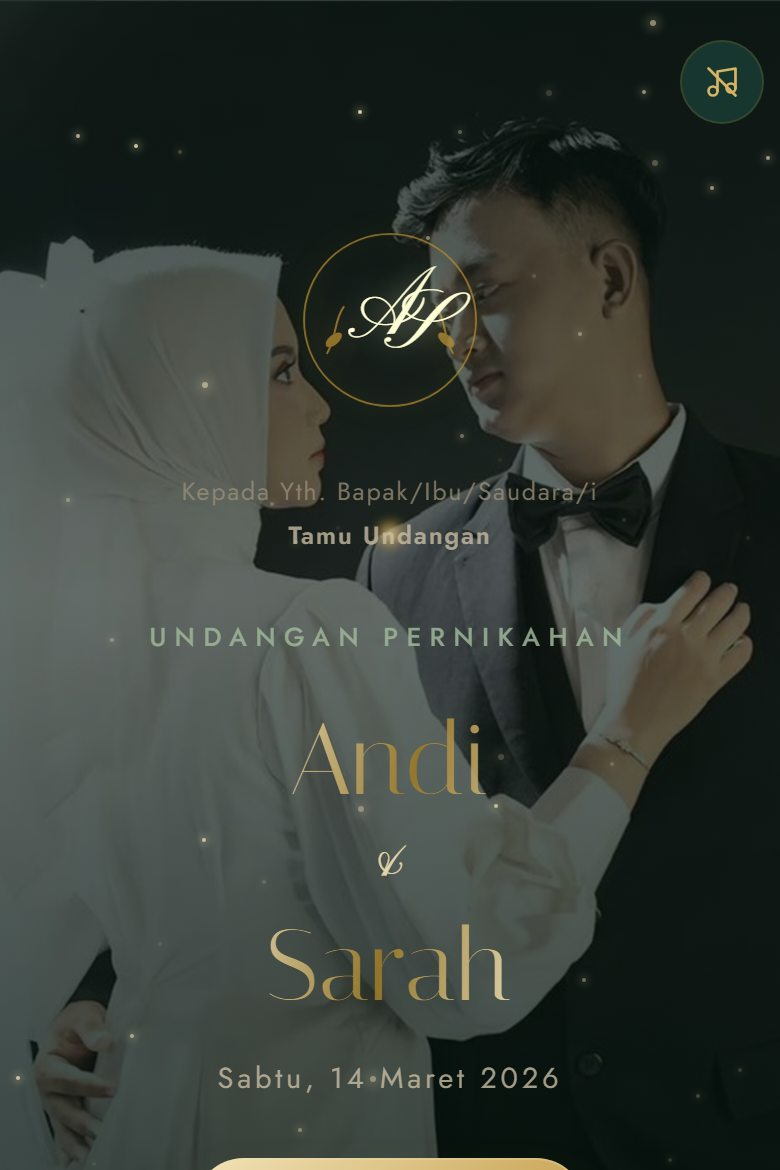
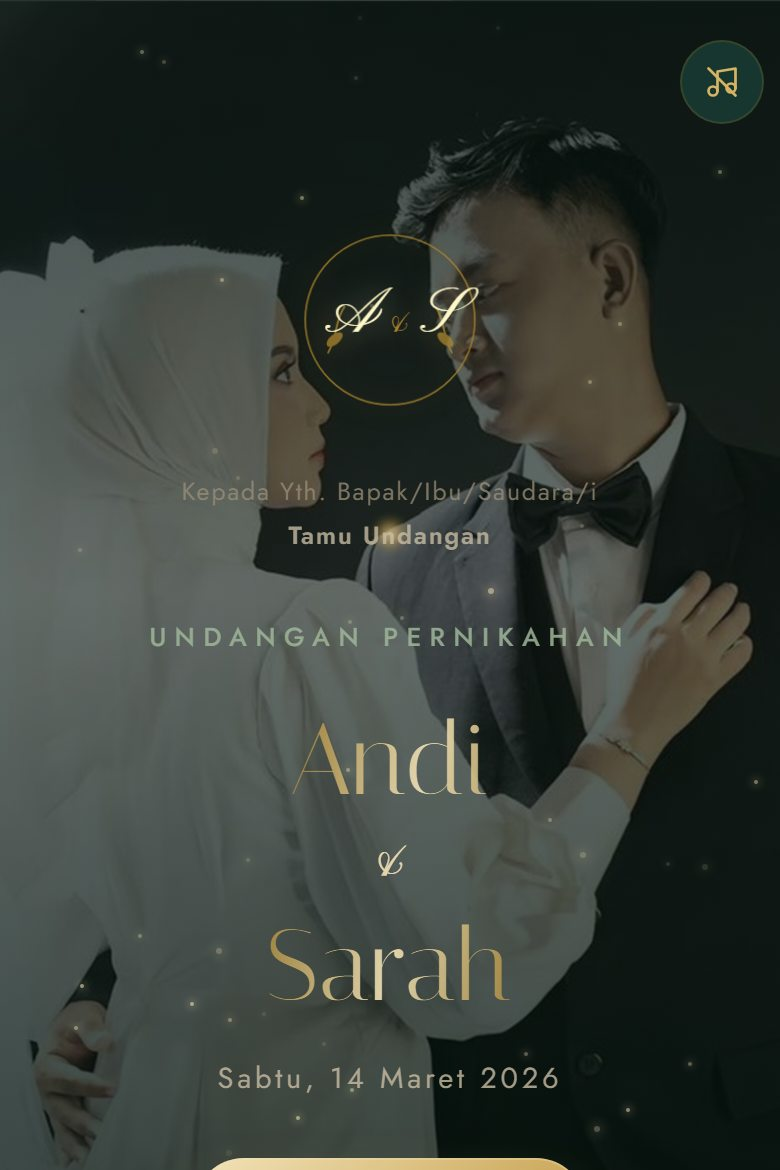
fix: potret ulang gambar tema yang basi + buang catatan gerbang link tamu
GAMBAR BASI — garis putih sampul sage-rose sudah hilang di undangan
sungguhan sejak commit sebelumnya, tapi user masih melihatnya di halaman
depan, di kartu tema, dan di tab Desain Kamu. Perbaikannya benar; yang
salah adalah gambarnya.

Dua gambar per tema BUKAN aset desain, melainkan POTRET sampul tema itu
sendiri: thumbnail kartu tema, dan gambar layar HP di hero. Keduanya
dipotret 17:39, sementara CSS-nya diperbaiki 21:01. Setiap perubahan pada
sampul membuat keduanya basi SEKETIKA, dan tidak ada apa pun yang memberi
tahu — gejalanya persis seperti "bug yang katanya sudah diperbaiki tapi
masih muncul".

Keenam gambar dipotret ulang. Emerald Dusk ikut berubah karena monogram
sampulnya juga baru.

Dibuktikan dengan membandingkan LAMA vs BARU, bukan dengan melihat:
kolom di garis tengah dibaca lewat canvas, dan lonjakannya turun dari
165,53 ke 4,71 (hero) dan dari 169,91 ke 9,80 (thumbnail). Angka mutlaknya
sengaja tidak dipakai sebagai ambang — foto sungguhan punya tepi tegak di
tengah, dan ivory-gold serta emerald-dusk yang TIDAK punya jahitan sama
sekali tetap terbaca 3-6. Yang membuktikan cuma selisihnya.

tools/potret-tema.js ditambahkan supaya ini tidak terulang: satu perintah
memotret ulang seluruh gambar tema. Ia menunggu #cover.has-sampul —
penanda yang dipasang demo-template.js setelah foto sampul selesai dimuat
— bukan jeda tetap, jadi mustahil menangkap sampul kosong. Dicatat juga di
CLAUDE.md sebagai langkah wajib setiap kali sampul tema berubah.
[…]

diff --git a/tools/potret-tema.js b/tools/potret-tema.js
@@ -1,0 +1,192 @@
+/**
+ * Memotret ulang SEMUA gambar statis yang diambil dari sampul tema.
+ *
+ * KENAPA BERKAS INI ADA
+ * ---------------------
+ * Ada dua gambar per tema yang bukan aset desain, melainkan POTRET dari
+ * sampul tema itu sendiri:
+ *
+ *   templates/<kategori>/<tema>/assets/thumbnail.jpg  -> kartu tema
+ *   assets/hero/<tema>.jpg                            -> mockup HP di hero
+ *
+ * Artinya setiap kali sampul sebuah tema berubah — CSS-nya, foto contohnya,
+ * monogramnya — kedua gambar itu langsung basi, dan TIDAK ADA yang
+ * memberi tahu. Gagalnya senyap dan tampak seperti bug yang sudah
+ * diperbaiki tapi "masih muncul".
+ *
+ * Itu sudah benar-benar terjadi: garis putih di sampul Sage Rose sudah
+ * diperbaiki di CSS dan hilang di undangan sungguhan, tapi masih terlihat
+ * di halaman depan dan di kartu tema selama berjam-jam — karena yang
+ * dilihat orang di sana adalah potret lama.
+ *
+ * JALANKAN SETIAP KALI:
+ *   - CSS/markup sampul sebuah tema diubah
+ *   - berkas di templates/_demo/<tema>/ diganti
+ *   - tema baru ditambahkan
+ *
+ * PRASYARAT (dua-duanya harus sudah jalan):
+ *   1. server statis lokal di http://localhost:5500 dari root repo
+ *   2. Chrome headless dengan --remote-debugging-port=9222
+ *      Catatan: --window-size TIDAK menentukan viewport di Windows (ada
+ *      batas lebar jendela minimum), jadi ukurannya dipaksa lewat
+ *      Emulation.setDeviceMetricsOverride, bukan lewat argumen.
+ *
+ * PAKAI:  node tools/potret-tema.js [nama-tema ...]
+ *         tanpa argumen = semua tema
+ */
+const fs = require('fs');
+const path = require('path');
+const { execFileSync } = require('child_process');
+
+const REPO = path.resolve(__dirname, '..');
+const SERVER = 'http://localhost:5500';
+const CDP = 'http://127.0.0.1:9222';
+const KATEGORI = 'elegan-klasik';
+
+// Dua ukuran, dua tujuan. Lebar potret = lebar HP sungguhan; hasil
+// akhirnya diperbesar 2x oleh deviceScaleFactor lalu diperkecil ke ukuran
+// simpan di bawah.
+const KELUARAN = [
+  {
+    nama: 'thumbnail',
+    viewport: { w: 390, h: 585 },          // rasio 2:3, kartu tema
+    simpan: { w: 780, h: 1170, mutu: 84 },
+    tujuan: t => path.join(REPO, 'templates', KATEGORI, t, 'assets', 'thumbnail.jpg')
+  },
+  {
+    nama: 'hero HP',
+    viewport: { w: 390, h: 844 },          // rasio HP sungguhan, mockup hero
+    simpan: { w: 640, h: 1385, mutu: 82 },
+    tujuan: t => path.join(REPO, 'assets', 'hero', t + '.jpg')
+  }
+];
+
+function temaTersedia() {
+  const dir = path.join(REPO, 'templates', KATEGORI);
+  return fs.readdirSync(dir, { withFileTypes: true })
+    .filter(d => d.isDirectory())
+    .map(d => d.name);
+}
+
+async function cdp(url) {
+  const r = await fetch(CDP + '/json/new?about:blank', { method: 'PUT' });
+  const t = await r.json();
+  const ws = new WebSocket(t.webSocketDebuggerUrl);
+  let id = 0;
+  const nunggu = new Map();
+  await new Promise(res => (ws.onopen = res));
+  ws.onmessage = ev => {
+    const m = JSON.parse(ev.data);
+    if (m.id && nunggu.has(m.id)) { nunggu.get(m.id)(m); nunggu.delete(m.id); }
+  };
+  const kirim = (metode, params) => new Promise(res => {
+    const n = ++id; nunggu.set(n, res);
+    ws.send(JSON.stringify({ id: n, method: metode, params: params || {} }));
+  });
+  return { kirim, tutup: async () => { ws.close(); await fetch(CDP + '/json/close/' + t.id); } };
+}
+
+async function potret(tema, keluaran) {
+  const { kirim, tutup } = await cdp();
+  await kirim('Page.enable');
+  await kirim('Runtime.enable');
+  await kirim('Emulation.setDeviceMetricsOverride', {
+    width: keluaran.viewport.w, height: keluaran.viewport.h,
+    deviceScaleFactor: 2, mobile: true
+  });
+  await kirim('Page.navigate', {
+    url: SERVER + '/templates/' + KATEGORI + '/' + tema + '/index.html'
+  });
+
+  // Menunggu gambar benar-benar selesai, bukan menunggu durasi tetap:
+  // sampul memuat foto contoh dari templates/_demo/, dan potret yang
+  // diambil sebelum foto itu masuk menghasilkan sampul KOSONG — persis
+  // kesalahan yang dulu membuat kartu tema menampilkan sampul hampa.
+  let siap = false;
+  for (let i = 0; i < 40 && !siap; i++) {
+    await new Promise(r => setTimeout(r, 250));
+    const res = await kirim('Runtime.evaluate', {
+      expression: `(() => {
+        if (document.readyState !== 'complete') return false;
+        const cover = document.getElementById('cover');
+        if (!cover) return false;
+        // has-sampul dipasang demo-template.js SETELAH foto sampulnya
+        // selesai dimuat, jadi ia penanda paling jujur bahwa sampulnya siap.
+        if (!cover.classList.contains('has-sampul')) return false;
+        return Array.from(document.images).every(i => !i.src || i.complete);
+      })()`,
+      returnByValue: true
+    });
+    siap = !!(res.result && res.result.result.value);
+  }
+  if (!siap) console.warn('  ! ' + tema + ': sampul belum siap setelah 10 detik, tetap dipotret');
+
+  // Beri jeda pendek supaya animasi masuk sudah selesai — elemen yang
+  // tertangkap di tengah transisi tampil setengah transparan.
+  await new Promise(r => setTimeout(r, 900));
+
+  const shot = await kirim('Page.captureScreenshot', { format: 'png' });
+  const tmp = path.join(require('os').tmpdir(), 'ku-potret-' + tema + '-' + Date.now() + '.png');
+  fs.writeFileSync(tmp, Buffer.from(shot.result.data, 'base64'));
+  await tutup();
+  return tmp;
+}
+
+// Pengubahan ukuran & konversi ke JPEG dilakukan PowerShell + System.Drawing:
+// tidak ada ImageMagick di mesin ini, dan `convert` yang ada di PATH itu
+// alat NTFS bawaan Windows, bukan ImageMagick.
+function keJpeg(sumber, tujuan, lebar, tinggi, mutu) {
+  const dir = path.dirname(tujuan);
+  if (!fs.existsSync(dir)) fs.mkdirSync(dir, { recursive: true });
+  const ps = `
+    Add-Type -AssemblyName System.Drawing
+    $asli = [System.Drawing.Image]::FromFile('${sumber.replace(/\\/g, '\\\\')}')
+    $kanvas = New-Object System.Drawing.Bitmap(${lebar}, ${tinggi})
+    $g = [System.Drawing.Graphics]::FromImage($kanvas)
+    $g.InterpolationMode = [System.Drawing.Drawing2D.InterpolationMode]::HighQualityBicubic
+    $g.PixelOffsetMode = [System.Drawing.Drawing2D.PixelOffsetMode]::HighQuality
+    $g.Clear([System.Drawing.Color]::White)
+    $g.DrawImage($asli, 0, 0, ${lebar}, ${tinggi})
+    $g.Dispose()
+    $enc = [System.Drawing.Imaging.ImageCodecInfo]::GetImageEncoders() | Where-Object { $_.MimeType -eq 'image/jpeg' }
+    $par = New-Object System.Drawing.Imaging.EncoderParameters(1)
+    $par.Param[0] = New-Object System.Drawing.Imaging.EncoderParameter([System.Drawing.Imaging.Encoder]::Quality, [long]${mutu})
+    $kanvas.Save('${tujuan.replace(/\\/g, '\\\\')}', $enc, $par)
+    $kanvas.Dispose(); $asli.Dispose()
+  `;
+  execFileSync('powershell.exe', ['-NoProfile', '-NonInteractive', '-Command', ps], { stdio: 'pipe' });
+}
+
+(async () => {
+  const diminta = process.argv.slice(2);
+  const semua = temaTersedia();
+  const tema = diminta.length ? diminta.filter(t => semua.includes(t)) : semua;
+  if (!tema.length) {
+    console.error('Tidak ada tema yang cocok. Tersedia: ' + semua.join(', '));
+    process.exit(1);
+  }
+
+  // Gagal cepat kalau prasyaratnya belum jalan — lebih baik daripada
+  // menghasilkan gambar kosong yang baru ketahuan setelah di-commit.
+  try { await fetch(SERVER + '/'); } catch (e) {
+    console.error('Server lokal di ' + SERVER + ' tidak menjawab. Nyalakan dulu.'); process.exit(1);
+  }
+  try { await fetch(CDP + '/json/version'); } catch (e) {
+    console.error('Chrome dengan --remote-debugging-port=9222 tidak ditemukan.'); process.exit(1);
+  }
+
+  for (const t of tema) {
+    console.log(t);
+    for (const k of KELUARAN) {
+      const png = await potret(t, k);
+      const tujuan = k.tujuan(t);
+      keJpeg(png, tujuan, k.simpan.w, k.simpan.h, k.simpan.mutu);
+      fs.unlinkSync(png);
+      const kb = Math.round(fs.statSync(tujuan).size / 1024);
+      console.log('  ' + k.nama.padEnd(10) + ' -> ' + path.relative(REPO, tujuan).replace(/\\/g, '/') +
+                  '  (' + k.simpan.w + 'x' + k.simpan.h + ', ' + kb + ' KB)');
+    }
+  }
+  console.log('\nSelesai. Periksa hasilnya sebelum commit.');
+  process.exit(0);
+})();

diff --git a/assets/dashboard.js b/assets/dashboard.js
@@ -2067,7 +2067,6 @@
   var tamuEmptyMsg = document.getElementById('tamuEmptyMsg');
   var tamuBlock = document.getElementById('tamuBlock');
   var tamuKunciBlock = document.getElementById('tamuKunciBlock');
-  var tamuKunciCatatan = document.getElementById('tamuKunciCatatan');
   var tamuHitungBadge = document.getElementById('tamuHitungBadge');
   var tamuKeSapaanBtn = document.getElementById('tamuKeSapaanBtn');
   var daftarTamu = [];
@@ -2080,10 +2079,14 @@
   // menawarkan alat yang hasilnya tidak akan terlihat.
   //
   // Yang TIDAK dilakukan: menghapus baris guests yang sudah ada. Link yang
-  // terlanjur dibagikan ke tamu harus tetap hidup — mematikan tampilannya
-  // di dashboard tidak boleh berarti mematikan link di HP orang. Kalau
-  // masih ada tamu tersimpan, jumlahnya tetap disebut supaya tidak ada
-  // data yang hilang diam-diam dari pandangan pemiliknya.
+  // terlanjur dibagikan ke tamu tetap hidup — mematikan tampilannya di
+  // dashboard tidak berarti mematikan link di HP orang.
+  //
+  // Sempat ada catatan di layar yang menjelaskan hal itu ke user, lalu
+  // DIBUANG atas permintaan user: yang perlu dia putuskan cuma mau
+  // memakai link personal atau tidak, dan penjelasan tentang apa yang
+  // terjadi pada baris data di belakangnya bukan bebannya. Perilakunya
+  // sendiri tidak berubah — datanya tetap aman.
   function setGerbangTamu(){
     if (!tamuBlock || !tamuKunciBlock) return;
     var sapaan = (currentInvitation && currentInvitation.sapaan_tamu) || 'personal';
@@ -2091,17 +2094,6 @@
 
     tamuBlock.hidden = !nyala;
     tamuKunciBlock.hidden = nyala;
-
-    if (!nyala && tamuKunciCatatan) {
-      if (daftarTamu.length) {
-        tamuKunciCatatan.textContent = 'Catatan: ' + daftarTamu.length +
-          ' link tamu yang sudah kamu buat TIDAK dihapus dan tetap berfungsi. ' +
-          'Daftarnya muncul lagi begitu sapaan diubah kembali.';
-        tamuKunciCatatan.style.display = '';
-      } else {
-        tamuKunciCatatan.style.display = 'none';
-      }
-    }
   }
 
   if (tamuKeSapaanBtn) {

diff --git a/app.html b/app.html
@@ -717,7 +717,6 @@
       <div class="profile-block" id="tamuKunciBlock" hidden>
         <h3>Link Personal per Tamu</h3>
         <p>Fitur ini mati karena sapaan di sampul disetel ke <strong>"Selalu Tamu Undangan"</strong>. Ubah ke <strong>"Pakai nama tamu"</strong> di tab Isi Data kalau kamu mau tiap tamu punya link sendiri yang menyapa namanya.</p>
-        <p class="workspace-msg" id="tamuKunciCatatan" style="display:none;"></p>
         <button type="button" class="btn btn-outline btn-sm" id="tamuKeSapaanBtn">Buka pengaturan sapaan</button>
       </div>
 

diff --git a/CLAUDE.md b/CLAUDE.md
@@ -35,6 +35,7 @@ The project has grown past the original single-file landing page: it's now a sma
   - `theme-templates.js` — `THEME_TEMPLATES`, the single catalog of available themes (id, name, category, thumbnail, description). Used by both the landing page's theme grid and the dashboard's Template Tema grid. Add new themes here.
   - `pricing-plans.js` — `PRICING_PLANS`, the single catalog of Satuan/Berlangganan packages (name, price, features). Used by both the landing page's Harga section and the dashboard's Harga tab.
   - `hero-hp.js` / `hero-hp.css` — index.html-only: the hero's phone mockup that rotates through theme covers. The markup lives in `index.html`, not here — the first cover is the page's LCP image and must be in the HTML so the browser can start it before JS runs, and so the hero still renders whole if JS fails. The screens it shows are in `assets/hero/<theme>.jpg`, shot at 390×844 (real phone ratio); they are **not** the 2:3 `thumbnail.jpg`, which would get cropped inside a phone frame. Adding a theme to the hero means shooting a new one — the hero deliberately shows a curated three, not the whole catalog. Replaced `hero-corridor.js`/`.css` (nine cards flying at the reader), which turned into unreadable confetti at phone widths.
+- **`tools/potret-tema.js` — run it whenever a theme's cover changes.** Two images per theme are not design assets but *screenshots of the theme's own cover*: `templates/<category>/<theme>/assets/thumbnail.jpg` (theme cards) and `assets/hero/<theme>.jpg` (the hero phone mockup). Any change to a cover's CSS, markup, demo photos, or monogram makes both stale instantly, and **nothing warns you** — the bug looks fixed in the real invitation while the old version keeps showing on the landing page and theme cards. That already happened: the white seam on the Sage Rose cover was fixed in CSS and gone from the live invitation, yet stayed visible on the homepage and in the theme card for hours, because those are pictures. The script needs the local static server on :5500 and headless Chrome on :9222; it waits for `#cover.has-sampul` (the flag `demo-template.js` sets once the cover photo has loaded) rather than a fixed delay, so it can't capture an empty cover.
   - `demo-template.js` — index-independent: runs inside a theme document and fills its empty photo/music slots from `templates/_demo/<theme>/` so the standalone preview isn't all empty states. Never overwrites real invitation data — it checks the `window.__KU_DATA_ASLI` flag that `render-undangan.js` raises first.
   - `style.css` — shared design tokens and styles for `index.html`/`app.html` (spacing scale, radii, light/dark color tokens under `html[data-theme="..."]`, Fraunces/Inter fonts). Templates under `templates/` have their own separate `style.css` per theme.
 
